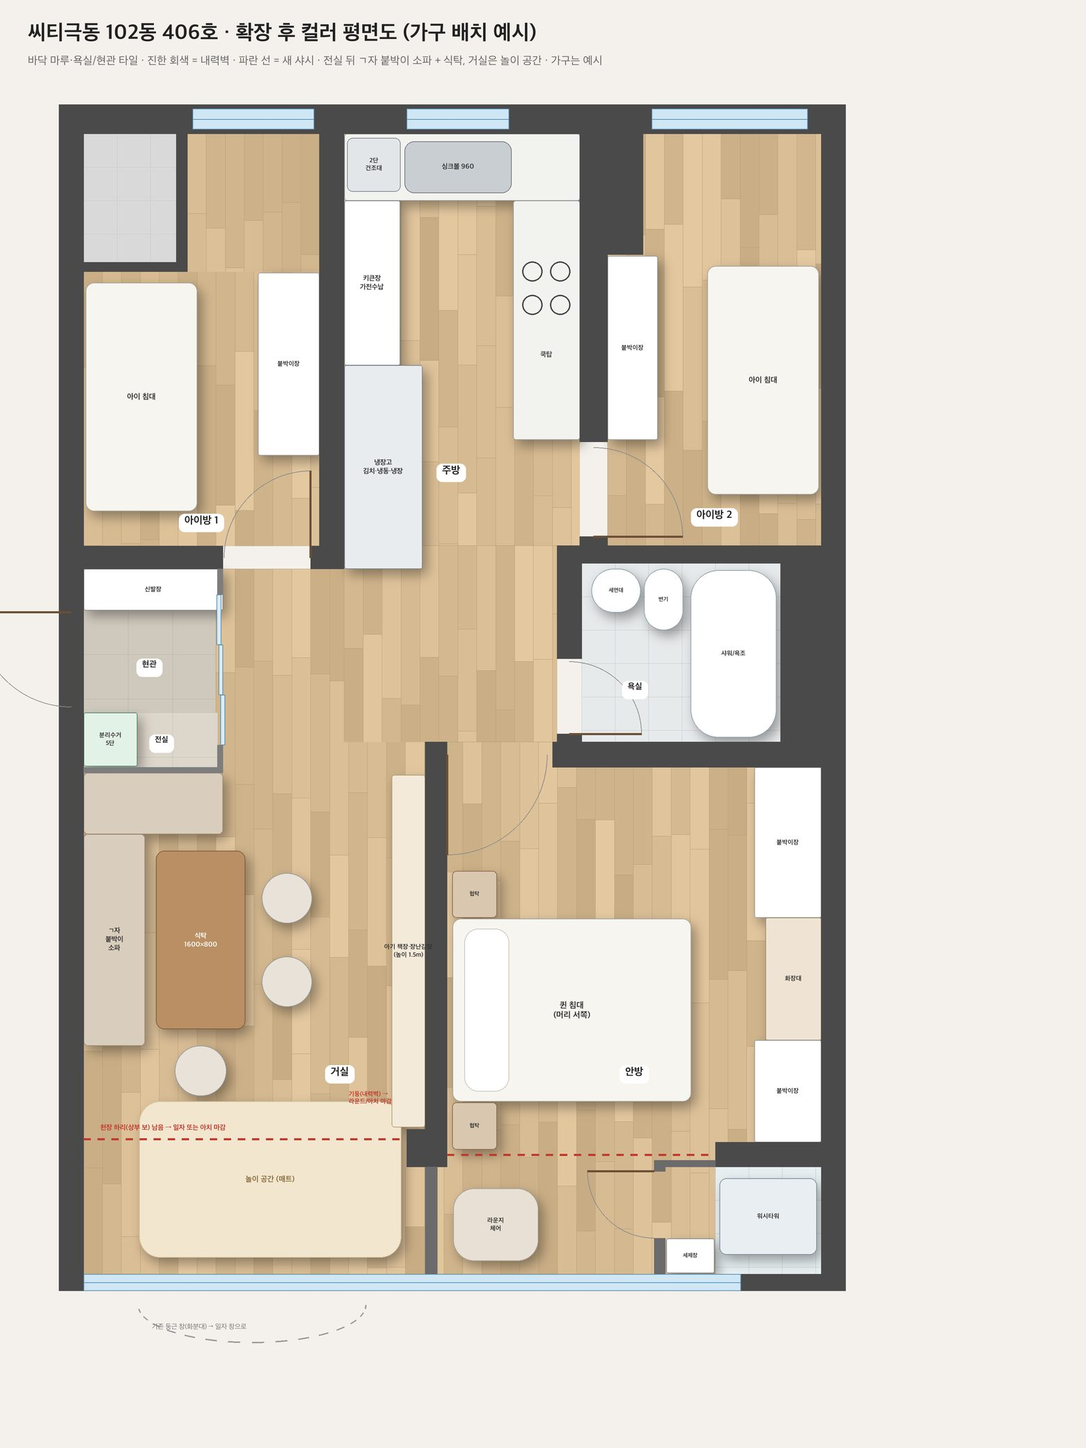
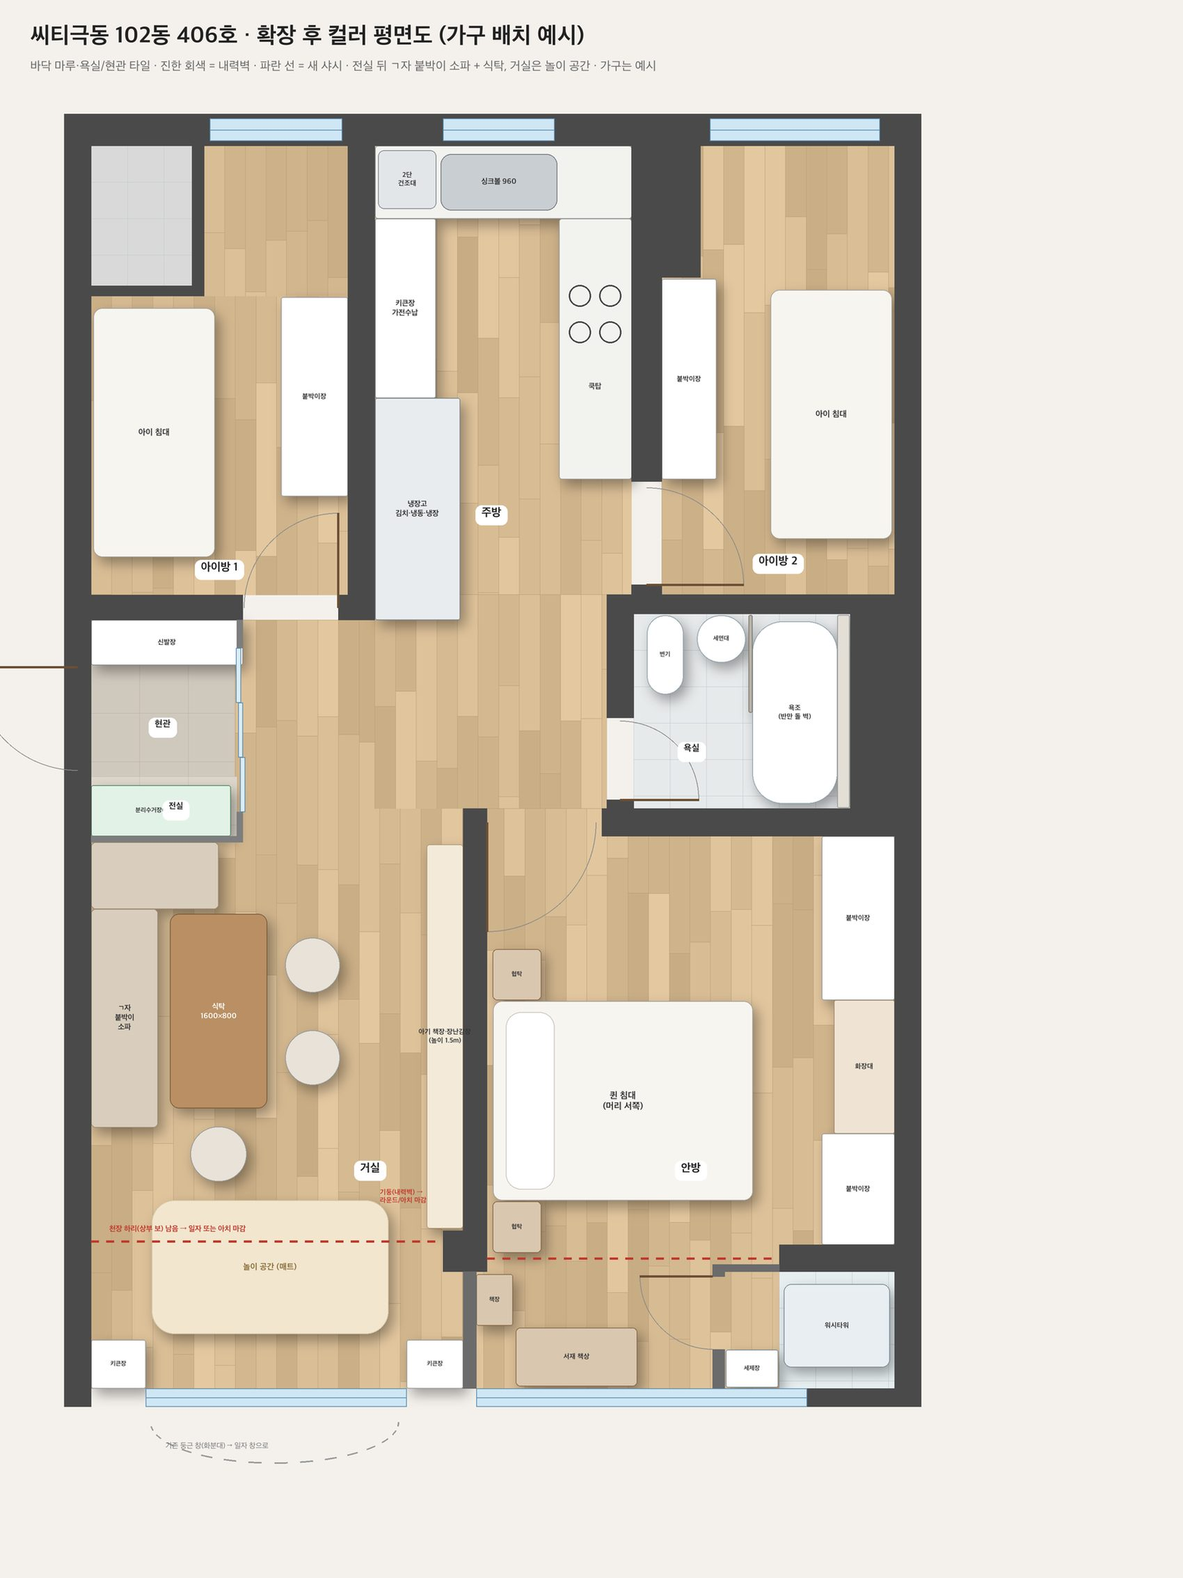
거실 창가 키큰장, 식탁 당김·가로 소파 단축, 분리수거장(세로통+키칸+상부장), 안방 서재·분리 6방식·거울문, 욕실 변기/세면대 교체·반벽·니치

diff --git a/js/concepts.js b/js/concepts.js
@@ -1,59 +1,65 @@
 // 공통(모든 컨셉): 싱크 왼쪽 2단 건조대 + 위 상부장, 오른쪽 전부 상부장(주방 창은 싱크 위로 축소),
-// 거실 오른쪽 벽 끝에서 끝까지 아기 책장·장난감장(높이 1.5m), 전실 분리수거함 5단, 세탁부스 돌출 + 세제장,
+// 거실 오른쪽 벽 끝에서 끝까지 아기 책장·장난감장(높이 1.5m), 거실 창 양쪽 키큰장, 전실 분리수거장(세로 통 3개+키 칸+상부장), 세탁부스 돌출 + 세제장,
 // 안방 침대 머리 서쪽 벽 + 동쪽 벽 붙박이장(가운데 화장대), 아이방 2곳 붙박이장(책상 없음)
 export const CONCEPTS = [
   {
     id: '01', name: '화이트 오크 미니멀', tag: '밝은 오크 + 무광 화이트. 같은 평면 사례와 가장 가까운 기본안, 거실은 놀이 공간.',
     T: { wall: '#efede8', part: '#ece9e3', dframe: '#2f2f2f', klow: '#f7f6f3', ctop: '#ebe6de', kup: '#f7f6f3', tall: '#f6f5f2', fridge: '#eceeef', base: '#f1eee8', seat: '#e3d8c8', back: '#d8cab6', table: '#c9a272', leg: '#a07a52', chair: '#c9a272', mat: '#f4ead6', acc: '#cfe0d4', duvet: '#efe8dc', head: '#d9ccb8', desk: '#d2b892', vanity: '#ffffff', curtain: '#f3efe8', floor: 'wood', floorc: [214, 188, 152], entry: [214, 208, 198], rug: '#ece4d6', khandle: 'groove', shelf: '#f6f5f2', kidFrame: '#d2b892', mCab: '#f4f3f0', panel: '#d2b892' },
-    V: { living: 'play', tall: 'closed', kids: 'single' },
+    V: { living: 'play', tall: 'closed', kids: 'single', sep: 'curtain', wd: [['wd', 5951, 7300, [2]], ['van', 7300, 8400], ['wd', 8400, 9317, []]] },
     pal: [['#efede8', '벽 · 웜화이트'], ['#d6bc98', '바닥 · 라이트 오크 마루'], ['#f7f6f3', '주방·붙박이장 · 무광 화이트'], ['#e3d8c8', '붙박이 소파 · 오트밀 패브릭'], ['#c9a272', '식탁·의자 · 오크 원목'], ['#2f2f2f', '중문 · 블랙 슬림 프레임']],
     inter: ['벽·천장·문·붙박이장을 같은 웜화이트로 맞춰 24평이 한 공간처럼 넓어 보이게', '손잡이 없는 홈(그루브) 도어, 밝은 스톤 상판', '거실은 매입 다운라이트, 식탁 위만 펜던트 1개'],
     eff: ['거실 확장부: 놀이 매트 + 창가 낮은 바구니장 + 티피 텐트', '키큰장은 문을 모두 닫는 깔끔형(안쪽에 가전 칸·포켓도어)', '아이방: 싱글 침대 + 안전 가드, 창가 확장부는 놀이 러그'],
+    sep: '안방↔서재: 천장 매입 커튼 레일 + 리넨 커튼(평소엔 걷어 두고 잘 때만 가림) · 붙박이장: 가운데 화장대 + 화장대 옆 문 1짝 전신거울',
     ref: 'ECI·디자인다룸 씨티극동 24평(화이트·3연동 중문)', views: ['living', 'kitchen']
   },
   {
     id: '02', name: '웜 오크 호텔 스위트', tag: '미디엄 오크 무늬목 + 크림·그레이지 + 브라스. 천장 간접등과 우드 헤드월로 호텔 객실 느낌.',
     T: { wall: '#ebe4d9', part: '#e2d8c9', dframe: '#b8955a', moru: true, klow: '#b98d62', kWood: true, ctop: '#efe9df', kup: '#ece5da', tall: '#b98d62', fridge: '#ece5da', base: '#d9cbb7', seat: '#ece4d6', back: '#e2d6c3', table: '#a9805a', leg: '#7d5a3c', chair: '#d8c6ae', chairStyle: 'fabric', mat: '#efe2cc', acc: '#b9a17f', duvet: '#f3eee6', head: '#cbb79c', desk: '#a9805a', vanity: '#b98d62', curtain: '#efe8dd', floor: 'wood', floorc: [196, 160, 120], plank: 220, entry: [200, 190, 176], rug: '#e6dccd', pendant: '#b8955a', pendantStyle: 'dome', khandle: 'brass', faucet: 'brass', shelf: '#d8c3a5', shelfWood: true, kidCab: '#e9e1d4', kidFrame: '#c9a77c', mCab: '#b98d62', mWood: true, mHandle: 'brass', panel: '#a9805a', vanityTop: '#e9e3d8', niche: '#b98d62', nicheWood: true, entryCab: '#b98d62', entryWood: true, entryDoor: '#5a4636', lampc: '#efe2c8', doorCol: '#efe8dd' },
-    V: { living: 'bench', tall: 'cafeGlass', kids: 'floor', headPanel: true, cove: true },
+    V: { living: 'bench', tall: 'cafeGlass', kids: 'floor', headPanel: true, cove: true, sep: 'slat', wd: [['wd', 5951, 7300, []], ['van', 7300, 8400], ['wd', 8400, 9317, [0]]] },
     pal: [['#ebe4d9', '벽 · 그레이지'], ['#c4a078', '바닥 · 미디엄 오크(220폭)'], ['#b98d62', '주방 하부장·키큰장·붙박이장 · 오크 무늬목'], ['#ece4d6', '소파·의자 · 크림 부클레'], ['#b8955a', '손잡이·수전·조명 · 브라스'], ['#efe9df', '상판 · 웜화이트 스톤']],
     inter: ['주방 하부장·키큰장·신발장·안방 붙박이장을 같은 오크 무늬목으로 이어서 고급스럽게', '천장 가장자리 간접등 + 안방 침대 뒤 오크 헤드월(위 간접등, 양쪽 브라스 벽등)', '브라스 손잡이·수전·펜던트, 중문은 브라스 프레임 + 모루유리'],
-    eff: ['키큰장 가운데: 플루티드 유리 포켓도어 홈카페(쓸 땐 문을 옆으로 밀어 넣음) + 머그 선반', '거실 창 아래 길이 2.45m 수납 벤치 + 로만쉐이드', '아이방: 낮은 하우스 바닥침대(떨어져도 안전) + 붙박이장'],
+    eff: ['키큰장 가운데: 플루티드 유리 포켓도어 홈카페(쓸 땐 문을 옆으로 밀어 넣음) + 머그 선반', '거실 창 아래 길이 2.15m 수납 벤치(양쪽 키큰장 사이) + 로만쉐이드', '아이방: 낮은 하우스 바닥침대(떨어져도 안전) + 붙박이장'],
+    sep: '안방↔서재: 우드 간살 스크린(하리 아래 반만, 빛·바람 통과) · 붙박이장: 가운데 화장대(조명 거울) + 남쪽 문 1짝 전신거울',
     ref: '국보 씨티극동 43평(통창·간접등), 디자인다룸(중문)', views: ['cafe', 'master']
   },
   {
     id: '03', name: '월넛 호텔 라운지', tag: '짙은 월넛 무늬목 + 헤링본 마루 + 트래버틴. 거실은 낮은 라운지 소파로 좌식 생활.',
     T: { wall: '#e6dfd6', part: '#ddd3c6', dframe: '#3a2e26', klow: '#6b4a34', kWood: true, ctop: '#e4dbcf', kup: '#e6dfd6', tall: '#6b4a34', fridge: '#e6dfd6', base: '#cdbfae', seat: '#d9cfc2', back: '#c8b9a6', table: '#d8c8b2', stone: true, leg: '#3a2e26', metalLeg: true, chair: '#6b4a34', chairStyle: 'wood', mat: '#e2d8cb', acc: '#8a6a52', duvet: '#efebe5', head: '#7a5a44', channel: true, desk: '#6b4a34', vanity: '#6b4a34', curtain: '#e7e0d6', floor: 'herring', floorc: [170, 128, 90], entry: [186, 176, 162], rug: '#d9cfc2', pendant: '#3a2e26', pendantStyle: 'cone', khandle: 'brass', faucet: 'brass', shelf: '#e9e3da', kidCab: '#efe9e0', kidFrame: '#b08a68', mCab: '#6b4a34', mWood: true, mHandle: 'brass', panel: '#6b4a34', vanityTop: '#e4dbcf', splash: '#e4dbcf', entryCab: '#6b4a34', entryWood: true, entryDoor: '#3a2e26', lampc: '#efe2c8', doorCol: '#e9e2d8' },
-    V: { living: 'lounge', tall: 'bar', kids: 'nook', headPanel: true, cove: true },
+    V: { living: 'lounge', tall: 'bar', kids: 'nook', headPanel: true, cove: true, sep: 'shelf', wd: [['wd', 5951, 7300, [1, 2]], ['van', 7300, 8400], ['wd', 8400, 9317, []]] },
     pal: [['#e6dfd6', '벽 · 웜 그레이지'], ['#aa805a', '바닥 · 오크 헤링본'], ['#6b4a34', '주방·붙박이장·헤드월 · 월넛 무늬목'], ['#d8c8b2', '식탁 · 트래버틴'], ['#d9cfc2', '라운지 소파 · 스톤 부클레'], ['#b8955a', '손잡이·수전 · 브라스']],
     inter: ['거실·주방 바닥을 헤링본 마루로 깔아 호텔 라운지 느낌', '주방 하부장·키큰장·신발장·안방 붙박이장·헤드월을 월넛 무늬목으로', '트래버틴 식탁·상판, 브라스 손잡이, 천장 간접등'],
     eff: ['거실 확장부: 바닥에 가까운 라운지 소파(좌식, 아이가 올라가도 낮음) + 원형 낮은 테이블', '키큰장 가운데: 거울 뒷벽 + 유리 선반 바(커피머신·잔·병)', '아이방: 싱글 침대 + 창가 쿠션 벤치(아래 수납) 책 읽는 자리'],
+    sep: '안방↔서재: 양면 오픈 책장 파티션(폭 약 0.6m·높이 1.2m, 양쪽에서 사용) · 붙박이장: 화장대 옆 문 2짝을 전신거울로',
     ref: '국보 한강극동·씨티극동 43평(간접등·마감), 벨류(라인조명)', views: ['living', 'cafe']
   },
   {
     id: '04', name: '재팬디 좌식 평상', tag: '애쉬·리넨·라탄. 거실 확장부 전체를 평상으로, 하리는 아치로.',
     T: { wall: '#e9e1d3', part: '#ddd2c0', dframe: '#a88763', muntin: true, moru: true, klow: '#ddd2bf', ctop: '#efe9de', kup: '#ece5d9', tall: '#e4dccd', fridge: '#e4dccd', base: '#d9cdb8', seat: '#d8ccb6', back: '#bfae95', table: '#a88763', leg: '#7d6448', chair: '#c2a072', chairStyle: 'rattan', mat: '#e2d6c2', acc: '#a3b18a', duvet: '#ede6d8', head: '#bfa98a', desk: '#b8976d', vanity: '#ddd2bf', curtain: '#efe8db', floor: 'wood', floorc: [222, 204, 174], plank: 220, entry: [208, 198, 182], rug: '#e2d6c2', pendant: '#d9c3a0', lampc: '#efe2c8', khandle: 'groove', shelf: '#e4dccd', kidFrame: '#c9a77c', mCab: '#e4dccd', niche: '#c9b08a', nicheWood: true },
-    V: { living: 'daybed', tall: 'cafe', kids: 'floor', arch: true },
+    V: { living: 'daybed', tall: 'cafe', kids: 'floor', arch: true, sep: 'shoji' },
     pal: [['#e9e1d3', '벽 · 베이지 화이트'], ['#decbad', '바닥 · 애쉬 마루'], ['#d8ccb6', '평상 매트 · 리넨'], ['#c2a072', '의자 · 라탄'], ['#a88763', '목재 · 오크 브라운'], ['#a3b18a', '포인트 · 올리브']],
     inter: ['낮은 가구·라탄 의자·리넨으로 차분하게', '확장부 하리(상부 보)를 아치로 마감해 부드러운 선(벨류 사례)', '우드 프레임 + 모루유리 중문'],
-    eff: ['거실 확장부 전체(약 2.9m × 1.17m)를 높이 35cm 평상으로: 아래 서랍 4개, 위는 낮잠·놀이·좌식 테이블', '키큰장 가운데 열린 홈카페 칸(원목 안쪽, 위 간접등)', '아이방: 하우스 바닥침대 + 놀이 러그'],
+    eff: ['거실 창가 양쪽 키큰장 사이(약 2.15m × 1.17m)를 높이 35cm 평상으로: 아래 서랍 4개, 위는 낮잠·놀이·좌식 테이블', '키큰장 가운데 열린 홈카페 칸(원목 안쪽, 위 간접등)', '아이방: 하우스 바닥침대 + 놀이 러그'],
+    sep: '안방↔서재: 한지 미닫이 창호 2짝(반투명, 밀어서 열고 닫음) · 붙박이장: 가운데 화장대만(거울문 없이 단정하게)',
     ref: '벨류인테리어(하리 아치), 원앙마을 사례(발코니 단높임)', views: ['living', 'kids1']
   },
   {
     id: '05', name: '티크·라탄 리조트', tag: '티크 무늬목 + 라탄 캐인 도어 + 초록 식물. 발리 리조트 같은 따뜻한 좌식 거실.',
     T: { wall: '#ede6da', part: '#e2d8c8', dframe: '#7a5a3c', muntin: true, klow: '#9a6b44', kWood: true, ctop: '#ece6db', kup: '#ece6db', tall: '#9a6b44', fridge: '#ece6db', base: '#cdb89a', seat: '#e9dfcf', back: '#d6c6ae', table: '#8a5f3c', leg: '#6a4a30', chair: '#c9a77c', chairStyle: 'rattan', mat: '#e6dccb', acc: '#7f9a6b', duvet: '#f0ebe1', head: '#9a6b44', desk: '#9a6b44', vanity: '#9a6b44', curtain: '#efe7da', floor: 'wood', floorc: [176, 132, 92], plank: 200, entry: [196, 184, 166], rug: '#e6dccb', pendant: '#c9a77c', pendantStyle: 'dome', khandle: 'brass', shelf: '#d9c3a2', shelfWood: true, kidCab: '#efe7da', kidFrame: '#9a6b44', mCab: '#9a6b44', mWood: true, mHandle: 'brass', panel: '#8a5f3c', niche: '#9a6b44', nicheWood: true, lampc: '#f0e2c6' },
-    V: { living: 'floor', tall: 'cane', kids: 'single', headPanel: true },
+    V: { living: 'floor', tall: 'cane', kids: 'single', headPanel: true, sep: 'cane', wd: [['wd', 5951, 6850, []], ['van', 6850, 7950], ['wd', 7950, 9317, [0]]] },
     pal: [['#ede6da', '벽 · 샌드 화이트'], ['#b0845c', '바닥 · 티크톤 마루'], ['#9a6b44', '주방·키큰장·붙박이장 · 티크 무늬목'], ['#c9a77c', '캐인 도어·의자 · 라탄'], ['#7f9a6b', '쿠션·식물 · 올리브 그린'], ['#e9dfcf', '패브릭 · 내추럴 리넨']],
     inter: ['키큰장 윗장 문을 라탄 캐인(그물)으로: 통풍 되고 가볍게', '티크 무늬목 + 라탄 의자·라운지체어 + 큰 화분', '안방은 티크 헤드월 + 브라스 벽등'],
     eff: ['거실 확장부: 좌식 방석(푸프) + 라탄 낮은 테이블 + 라탄 라운지체어', '키큰장 가운데 홈카페 + 라탄 바구니 칸', '아이방: 싱글 침대 + 가드, 창가 러그·티피'],
+    sep: '안방↔서재: 라탄 캐인 접이식 스크린 3폭(옮길 수 있음) · 붙박이장: 화장대를 방문 쪽으로 + 화장대 옆 전신거울 1짝',
     ref: '원앙마을 사례(발코니), 오늘의집 리조트 스타일', views: ['living', 'cafe']
   },
   {
     id: '06', name: '스모크 오크 + 트래버틴', tag: '짙은 스모크 오크 + 따뜻한 트래버틴 + 웜화이트. 차분하고 묵직한 고급감.',
     T: { wall: '#efebe5', part: '#e4ddd3', dframe: '#3b3631', klow: '#5e5246', kWood: true, ctop: '#e2d5c3', kup: '#efebe5', tall: '#5e5246', fridge: '#efebe5', base: '#d8cdbf', seat: '#e3dbd0', back: '#d3c7b8', table: '#dccbb3', stone: true, leg: '#3b3631', metalLeg: true, chair: '#5e5246', chairStyle: 'wood', mat: '#e9e1d6', acc: '#a58e74', duvet: '#f1ede7', head: '#8c7a68', channel: true, desk: '#5e5246', vanity: '#5e5246', curtain: '#ece6dd', floor: 'wood', floorc: [206, 182, 150], plank: 240, entry: [190, 180, 168], rug: '#e3dbd0', pendant: '#e2d5c3', pendantStyle: 'dome', khandle: 'bar', splash: '#e2d5c3', shelf: '#efebe5', kidCab: '#f1ede7', kidFrame: '#b39b80', mCab: '#5e5246', mWood: true, mHandle: 'bar', panel: '#5e5246', vanityTop: '#e2d5c3', niche: '#e2d5c3', entryCab: '#5e5246', entryWood: true, entryDoor: '#3b3631', lampc: '#efe2c8' },
-    V: { living: 'play', tall: 'cafe', kids: 'nook', headPanel: true, cove: true },
+    V: { living: 'play', tall: 'cafe', kids: 'nook', headPanel: true, cove: true, sep: 'cove', wd: [['wd', 5951, 6851, []], ['van', 6851, 7951], ['wd', 7951, 9317, [0, 1]]] },
     pal: [['#efebe5', '벽 · 웜화이트'], ['#ceb696', '바닥 · 내추럴 오크(240폭)'], ['#5e5246', '주방·키큰장·붙박이장 · 스모크 오크'], ['#e2d5c3', '상판·식탁·벽타일 · 트래버틴'], ['#e3dbd0', '소파 · 스톤 패브릭'], ['#3b3631', '중문·조명 · 다크 브론즈']],
     inter: ['짙은 스모크 오크 수납장 + 밝은 바닥·벽으로 대비', '주방 상판·벽타일·식탁을 트래버틴 톤으로 통일', '천장 간접등, 안방 스모크 오크 헤드월'],
     eff: ['키큰장 가운데 홈카페 칸: 트래버틴 안쪽 + 위 간접등', '거실 확장부 놀이 매트 + 바구니장 (책장은 오른쪽 벽 전체)', '아이방: 싱글 침대 + 창가 쿠션 벤치'],
+    sep: '안방↔서재: 벽 없이 서재 바닥만 다른 마감 + 하리 아래 간접조명 띠 · 붙박이장: 화장대 옆 문 2짝 전신거울',
     ref: '국보 씨티극동 43평, 디자인다룸', views: ['kitchen', 'master']
   }
 ];
@@ -66,12 +72,15 @@ export const VIEWS = {
   dining: ['식탁·책장', [0.9, 1.5, 9.6], [2.6, 0.9, 6.6]],
   entry: ['현관·전실', [2.4, 1.5, 7.4], [0.35, 0.95, 4.8]],
   kitchen: ['주방', [3.5, 1.55, 4.95], [3.0, 1.1, 0.6]],
+  sink: ['싱크·건조대', [3.36, 1.6, 2.95], [3.36, 1.35, 0.3]],
+  recycle: ['분리수거장', [0.75, 1.55, 4.65], [0.55, 1.05, 5.9]],
   cafe: ['키큰장', [3.75, 1.45, 2.75], [2.45, 1.15, 1.5]],
   master: ['안방', [3.75, 1.6, 6.2], [6.0, 0.8, 8.3]],
   vanity: ['화장대', [4.7, 1.45, 7.85], [6.6, 1.2, 7.85]],
   kids1: ['아이방 1', [1.75, 1.55, 4.55], [0.8, 0.9, 1.3]],
   kids2: ['아이방 2', [5.0, 1.55, 3.6], [6.0, 0.85, 1.0]],
-  bath: ['욕실', [4.45, 1.85, 5.55], [5.8, 0.5, 4.5]],
+  bath: ['욕실', [4.40, 1.65, 5.5], [5.9, 0.95, 4.45]],
+  study: ['서재(안방 확장)', [4.45, 1.6, 8.45], [3.75, 0.9, 10.3]],
   laundry: ['세탁 부스', [4.2, 1.5, 9.95], [6.3, 1.0, 10.0]],
 };
-export const VIEW_ORDER = ['overview', 'overview2', 'living', 'dining', 'entry', 'kitchen', 'cafe', 'master', 'vanity', 'kids1', 'kids2', 'bath', 'laundry'];
+export const VIEW_ORDER = ['overview', 'overview2', 'living', 'dining', 'entry', 'recycle', 'kitchen', 'sink', 'cafe', 'master', 'vanity', 'study', 'kids1', 'kids2', 'bath', 'laundry'];

diff --git a/index.html b/index.html
@@ -60,10 +60,11 @@
     <ul>
       <li><b>확장</b> 발코니 1·2·3 전부 확장, 샷시 전체 교체, 거실 둥근 창 → 일자 통창. 거실·안방 사이 확장부에 새 벽(단열·흡음재).</li>
       <li><b>주방</b> ㄱ자 유지 + 오른쪽 다리를 아이방 2 문 앞까지 연장. 싱크볼 960(키큰장 앞면~코너 사이), 싱크 왼쪽(키큰장 옆 안쪽 칸)에 코스트코 2단 대형 건조대 + 그 위 상부장, 오른쪽은 전부 상부장(후드 일체). 주방 창은 싱크 위 약 0.92m로 줄임(같은 평면 ECI 사례). 왼쪽 벽: 키큰장(깊이 500, 가전 칸) + 냉장고장(1도어 3대).</li>
-      <li><b>거실·식탁</b> 큰 소파·TV 없음. 전실 벽 뒤 + 왼쪽 벽 ㄱ자 붙박이 소파(식탁 의자 겸용), 식탁 1,600×800. 오른쪽 벽은 끝에서 끝까지 아기 책장·장난감장(높이 약 1.5m, 깊이 30cm). 창가 확장부는 컨셉별로 놀이 매트 / 수납 벤치 / 평상 / 좌식 라운지.</li>
-      <li><b>안방</b> 방문 쪽은 비우고, 침대 머리는 서쪽(거실 쪽) 벽, 동쪽 벽 전체를 붙박이장으로 하고 가운데에 화장대(거울·조명·서랍)를 짜 넣음. 확장부 창가는 라운지체어.</li>
+      <li><b>거실·식탁</b> 큰 소파·TV 없음. 전실 벽 뒤(가로 1.05m로 줄임) + 왼쪽 벽 ㄱ자 붙박이 소파(식탁 의자 겸용), 식탁 1,600×800은 가로 소파 좌판 앞 4cm까지 당김. 거실 창 양쪽에 키큰장(샷시 교체 때 창 양끝을 벽으로 막아 거실 창 약 2.15m). 오른쪽 벽은 끝에서 끝까지 아기 책장·장난감장(높이 약 1.5m, 깊이 30cm). 창가 확장부는 컨셉별로 놀이 매트 / 수납 벤치 / 평상 / 좌식 라운지.</li>
+      <li><b>안방</b> 방문 쪽은 비우고, 침대 머리는 서쪽(거실 쪽) 벽, 동쪽 벽 전체를 붙박이장으로 하고 화장대(거울·조명·서랍)를 짜 넣음. 일부 장 문은 전신거울. 확장부는 서재(책장·책상). 안방↔서재는 벽 대신 커튼·간살 스크린·반높이 책장·한지 미닫이·접이식 스크린·바닥 마감/조명 중 선택(컨셉별 예시).</li>
+      <li><b>욕실</b> 변기(문 쪽 구석) ↔ 세면대(욕조 옆) 위치 바꿈. 욕조(700×1,500)는 절반(750)만 얇은 돌 벽 30mm로 분리(유리 아님, 물때 적게). 욕조 뒤 100mm 덧벽에 긴 수납 니치 2줄 + 가운데 선반·간접등.</li>
       <li><b>아이방</b> 2곳 모두 붙박이장 + 침대(책상 없음, 이층 침대는 안 함).</li>
-      <li><b>현관</b> 중문을 거실 쪽으로 키워 전실로. 3연동 중문 + 신발장 + 분리수거함 40×40 5단(거의 천장까지).</li>
+      <li><b>현관</b> 중문을 거실 쪽으로 키워 전실로. 3연동 중문 + 신발장 + 분리수거장: 캔·플라스틱·병 세로형 통 3개(통 폭 340·깊이 400·높이 약 1,000) 아래장, 가운데 30cm 열린 칸(간접등·차 키 트레이), 위는 천장까지 상부장.</li>
       <li><b>세탁</b> 창고 자리 세탁 부스를 안방 쪽으로 약 45cm 더 내밀어 세제장(문 달린 키큰 수납 + 열린 선반)과 벽 선반 확보, 방음문 600(바깥으로 열림). 삼성 세탁기·건조기 직렬.</li>
       <li><b>난방</b> 개별난방(LNG). 확장부 바닥 난방 배관 연장 필요.</li>
     </ul>
@@ -105,6 +106,6 @@ document.getElementById('cases').innerHTML=CASES.map(([img,t,u,b])=>`<article><h
 document.querySelectorAll('#tabs button').forEach(b=>b.onclick=()=>{document.querySelectorAll('#tabs button').forEach(x=>x.classList.toggle('on',x===b));document.querySelectorAll('.tab').forEach(s=>s.classList.toggle('on',s.id===b.dataset.t));window.dispatchEvent(new Event('resize'));});
 const lb=document.getElementById('lightbox');document.addEventListener('click',e=>{if(e.target.matches('.cards img,.cases img')){lb.querySelector('img').src=e.target.src;lb.classList.add('on');}else if(e.target.closest('#lightbox'))lb.classList.remove('on');});
 </script>
-<script type="module" src="js/app.js?v=4"></script>
+<script type="module" src="js/app.js?v=6"></script>
 </body>
 </html>

diff --git a/js/app.js b/js/app.js
@@ -8,8 +8,8 @@ import { RenderPass } from 'three/addons/postprocessing/RenderPass.js';
 import { GTAOPass } from 'three/addons/postprocessing/GTAOPass.js';
 import { OutputPass } from 'three/addons/postprocessing/OutputPass.js';
 RectAreaLightUniformsLib.init();
-import { buildHouse, LABELS, CEIL_ONLY, OUTSIDE, audit } from './house.js?v=4';
-import { CONCEPTS, VIEWS, VIEW_ORDER } from './concepts.js?v=4';
+import { buildHouse, LABELS, CEIL_ONLY, OUTSIDE, audit } from './house.js?v=6';
+import { CONCEPTS, VIEWS, VIEW_ORDER } from './concepts.js?v=6';
 
 const wrap = document.getElementById('viewer');
 const renderer = new THREE.WebGLRenderer({ antialias: true, preserveDrawingBuffer: true });
@@ -96,6 +96,7 @@ function renderInfo(c) {
     <div class="pal">${c.pal.map(([h, n]) => `<div><i style="background:${h}"></i><span>${n}</span></div>`).join('')}</div>
     <div class="cols"><div><h3>인테리어 포인트</h3><ul>${c.inter.map(x => `<li>${x}</li>`).join('')}</ul></div>
     <div><h3>공간 활용</h3><ul>${c.eff.map(x => `<li>${x}</li>`).join('')}</ul></div></div>
+    <div class="sep"><b>안방·서재 분리 / 붙박이장</b> ${c.sep || ''}</div>
     <p class="ref">참고 사례: ${c.ref}</p>
     <p class="quick">이 컨셉 핵심 장면 → ${c.views.map(v => `<button data-v="${v}">${VIEWS[v][0]}</button>`).join(' ')}</p>`;
   el.querySelectorAll('.quick button').forEach(b => b.onclick = () => { goView(b.dataset.v); wrap.scrollIntoView({ behavior: 'smooth', block: 'center' }); });

diff --git a/style.css b/style.css
@@ -45,3 +45,5 @@ figcaption{padding:12px 14px;font-size:14px;line-height:1.5;color:#555}figcaptio
 #lightbox.on{display:block}#lightbox img{display:block;max-width:none;width:min(1700px,100%);margin:0 auto}
 footer{text-align:center;color:#9a9288;font-size:12px;padding:20px}
 @media (max-width:700px){.cols{grid-template-columns:1fr}.cards,.cases{grid-template-columns:1fr}#viewer{height:62vh}.hint{display:none}h1{font-size:17px}}
+
+.sep{background:#f6efe4;border-radius:10px;padding:10px 14px;margin:14px 0 4px;font-size:14.5px;line-height:1.6}.sep b{margin-right:6px}
